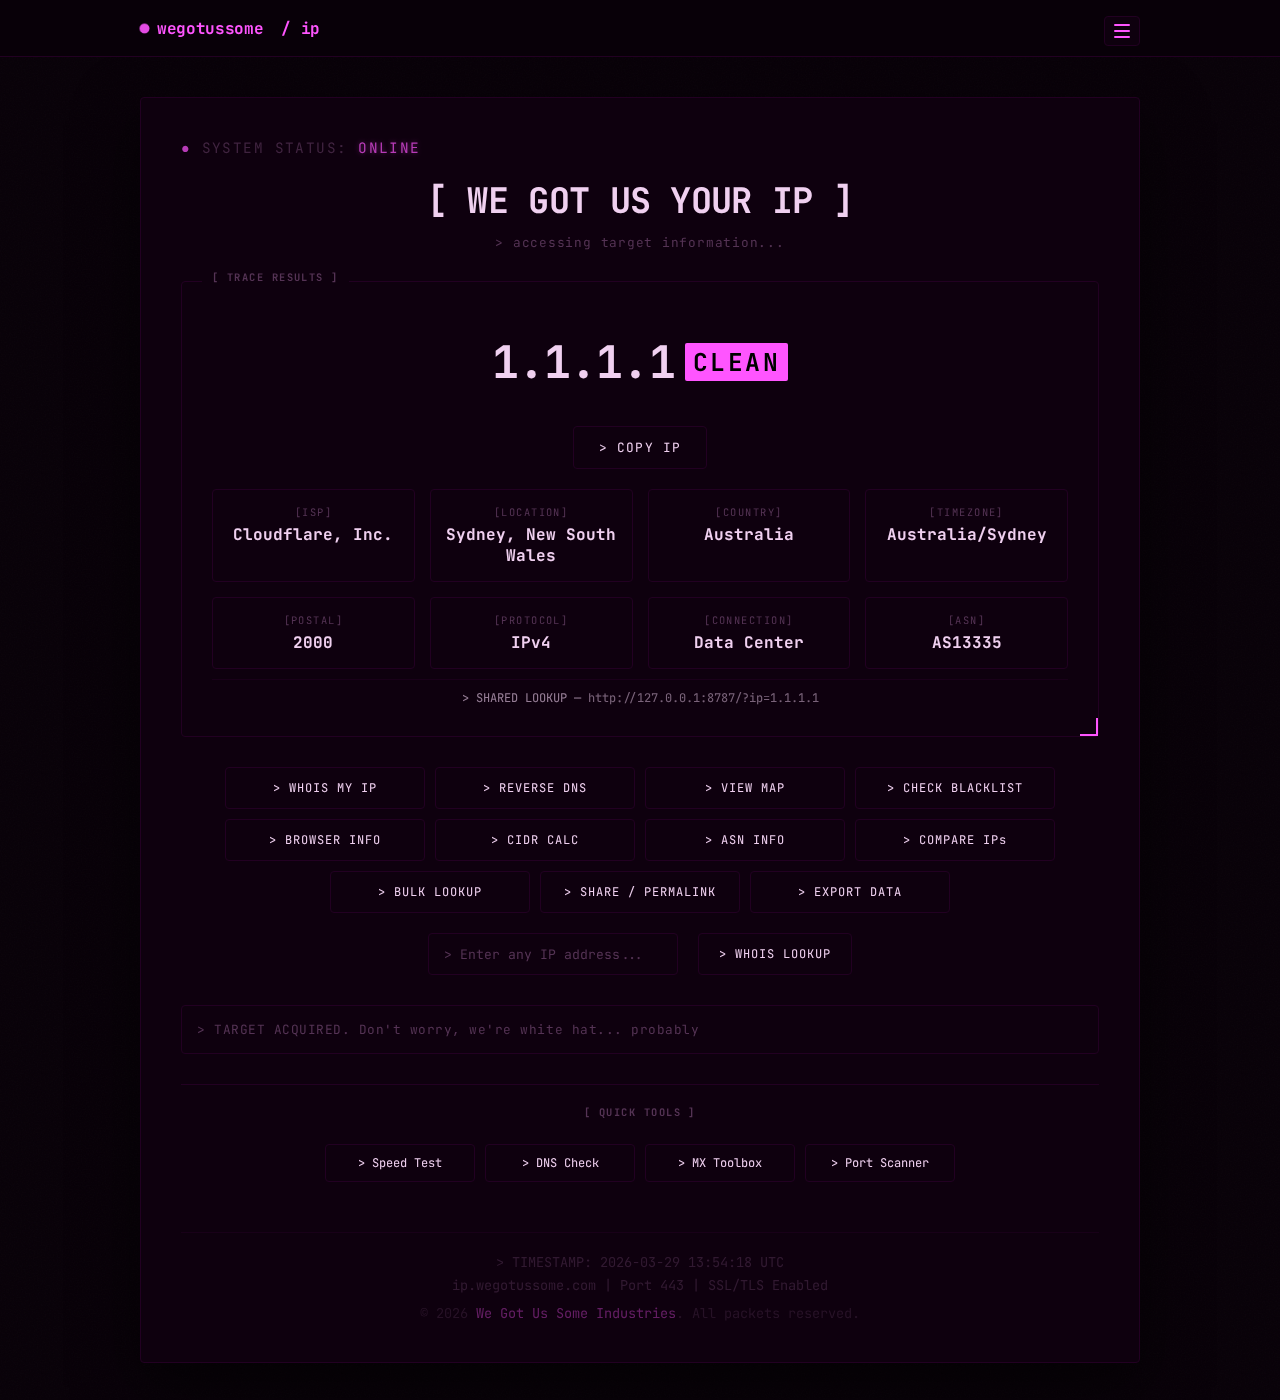
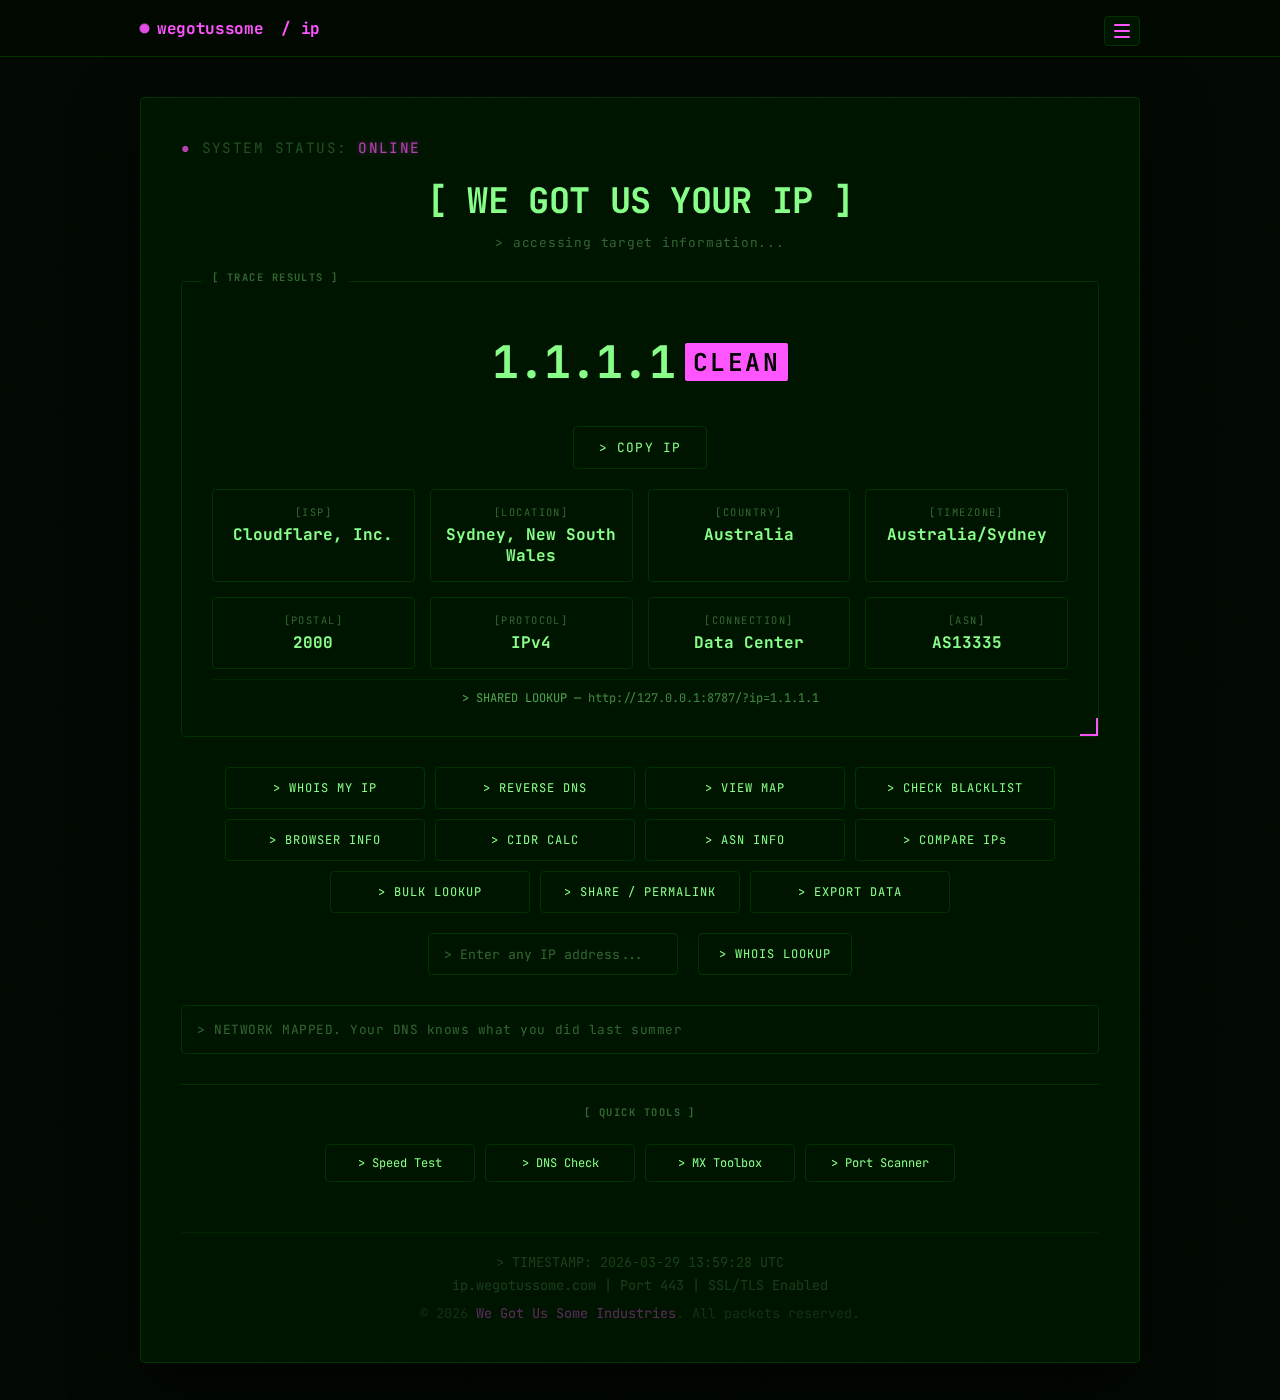
Rework Vortex WGUS theme: green/black with magenta accents

diff --git a/sw.js b/sw.js
@@ -1,4 +1,4 @@
-const CACHE_NAME = 'wegotusyourip-v19';
+const CACHE_NAME = 'wegotusyourip-v20';
 
 const APP_SHELL = [
     './',

diff --git a/README.md b/README.md
@@ -17,18 +17,18 @@
 | **CRT-Amber** | **CRT-CGA** | **CRT-Cyan** |
 | <img src="screenshots/crt-magenta.png" width="400" alt="crt-magenta"> | <img src="screenshots/crt-green.png" width="400" alt="crt-green"> | <img src="screenshots/crt-vortex.png" width="400" alt="crt-vortex"> |
 | **CRT-Magenta** | **CRT-Green** | **CRT-Vortex** |
-| <img src="screenshots/crt-white.png" width="400" alt="crt-white"> | <img src="screenshots/dracula.png" width="400" alt="dracula"> | <img src="screenshots/dracula-dark.png" width="400" alt="dracula-dark"> |
-| **CRT-White** | **Dracula** | **Dracula Dark** |
-| <img src="screenshots/fusion.png" width="400" alt="fusion"> | <img src="screenshots/github-dark.png" width="400" alt="github-dark"> | <img src="screenshots/github-light.png" width="400" alt="github-light"> |
-| **Fusion** | **GitHub Dark** | **GitHub Light** |
+| <img src="screenshots/crt-white.png" width="400" alt="crt-white"> | <img src="screenshots/dracula.png" width="400" alt="dracula"> | <img src="screenshots/fusion.png" width="400" alt="fusion"> |
+| **CRT-White** | **Dracula** | **Fusion** |
+| <img src="screenshots/dracula-dark.png" width="400" alt="dracula-dark"> | <img src="screenshots/github-dark.png" width="400" alt="github-dark"> | <img src="screenshots/github-light.png" width="400" alt="github-light"> |
+| **Dracula Dark** | **GitHub Dark** | **GitHub Light** |
 | <img src="screenshots/gruvbox-dark.png" width="400" alt="gruvbox-dark"> | <img src="screenshots/monokai.png" width="400" alt="monokai"> | <img src="screenshots/nord.png" width="400" alt="nord"> |
 | **Gruvbox Dark** | **Monokai** | **Nord** |
 | <img src="screenshots/one-dark.png" width="400" alt="one-dark"> | <img src="screenshots/solarized-dark.png" width="400" alt="solarized-dark"> | <img src="screenshots/solarized-light.png" width="400" alt="solarized-light"> |
 | **One Dark** | **Solarized Dark** | **Solarized Light** |
 | <img src="screenshots/tokyo-night.png" width="400" alt="tokyo-night"> | <img src="screenshots/vortex.png" width="400" alt="vortex"> | <img src="screenshots/wgus-dark.png" width="400" alt="wgus-dark"> |
 | **Tokyo Night** | **Vortex** | **WGUS Dark** |
-| <img src="screenshots/wgus-light.png" width="400" alt="wgus-light"> | | |
-| **WGUS Light** | | |
+| <img src="screenshots/wgus-light.png" width="400" alt="wgus-light"> |  |  |
+| **WGUS Light** |  |  |
 
 ## Overview
 
